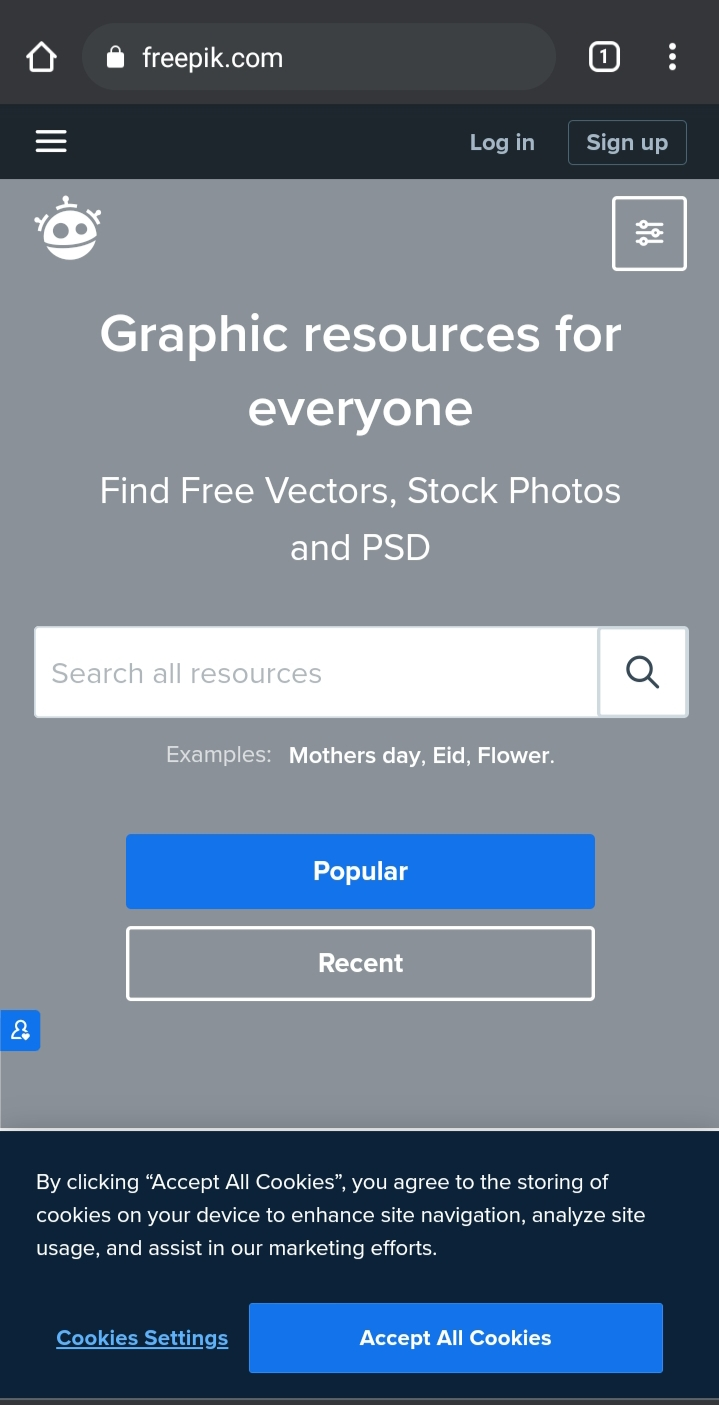
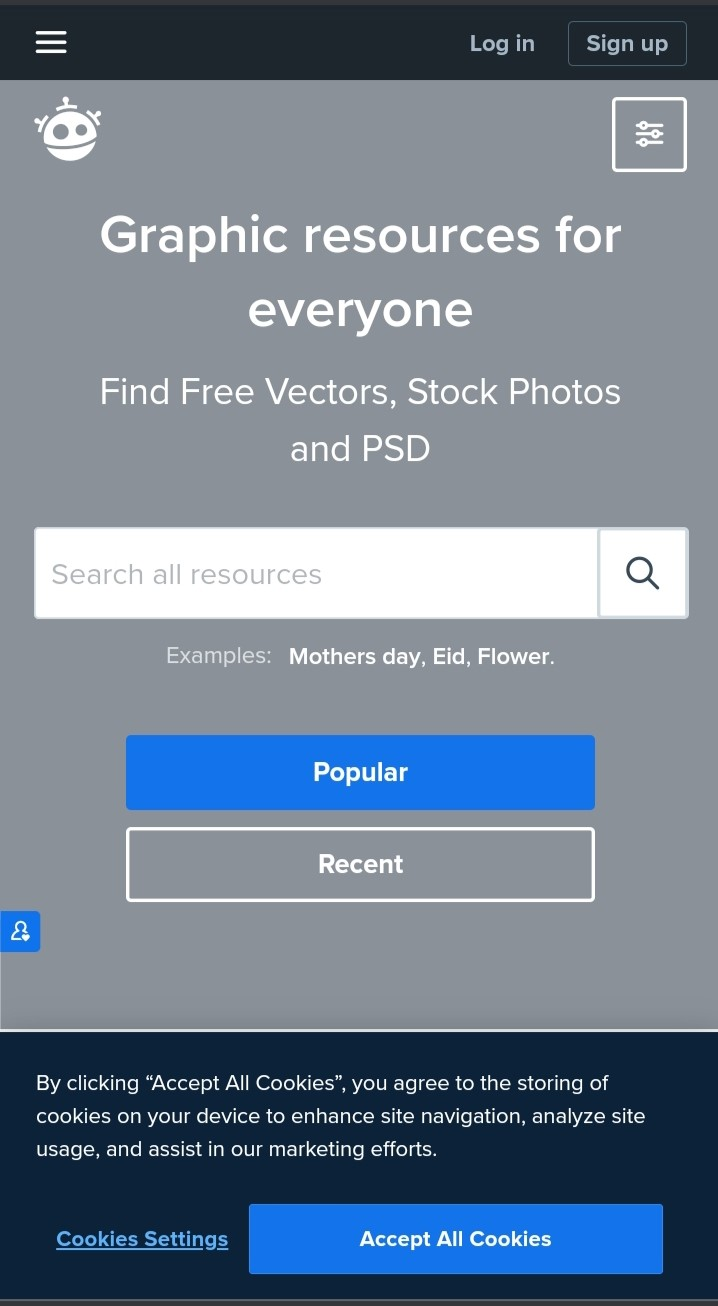
content and css update

diff --git a/lesson2/designprinciples.html b/lesson2/designprinciples.html
@@ -18,29 +18,39 @@
 <body>
     <header>
         <h1>Design Principles</h1>
+        <h2>Jill Anne Ruth V. Garcia</h2>
     </header>
     <main>
-            <section>
-                <h2>Fitt's Law</h2>
-                <h3>Freepik</h3>
-                <p><a href="https://www.freepik.com/">freepik.com</a></p>
-                <img src="images/freepikhome.jpg" alt="freepik home">
-                <p></p>
-            </section>
-            <section>
-                <h2>White Space and Clean Design</h2>
-                <h3>Khan Academy</h3>
-                <p><a href="https://www.khanacademy.org/">khanacademy.org</a></p>
-                <img src="images/khan academy home.jpg" alt="khan academy home">
-                <p></p>
-            </section>
-            <section>
-                <h2>Visual Hierarchy</h2>
-                <h3>Coolors</h3>
-                <p><a href="https://coolors.co/">coolors.co</a></p>
-                <img src="images/coolors home.jpg" alt="coolors home">
-                <p></p>
-            </section>
+        <section>
+            <h2>Fitt's Law</h2>
+            <h3>Freepik</h3>
+            <p><a href="https://www.freepik.com/">freepik.com</a></p>
+            <img src="images/filter.jpg" alt="freepik home">
+            <p>Freepik is a website where users can get paid and free media resources. The touch targets of the site are
+                very accessible. The home page shows a filter icon at the top right corner of the header. If the user
+                clicks it, he/she will see that the options for filtering search results are very user-friendly. There
+                is enough space in between touch targets that allows the user to make a more specific search.</p>
+        </section>
+        <section>
+            <h2>White Space and Clean Design</h2>
+            <h3>Khan Academy</h3>
+            <p><a href="https://www.khanacademy.org/">khanacademy.org</a></p>
+            <img src="images/khanacademyhome.jpg" alt="khan academy home">
+            <p>Khan Academy, an online learning website, has several elements on its landing page. Even if there are
+                different elements like images and texts on the page, reading through it will not strain the user’s
+                eyes. There is enough white space to allow the user's eyes to rest. And the elements were arranged in
+                such a way that will catch the user’s attention. </p>
+        </section>
+        <section>
+            <h2>Visual Hierarchy</h2>
+            <h3>Ecosia</h3>
+            <p><a href="https://www.ecosia.org">ecosia.org</a></p>
+            <img src="images/ecosia.jpg" alt="ecosia home">
+            <p>Ecosia, a search engine that aims to plant trees, only has a few elements on its home page. The
+                arrangement of the elements helps the user understand the aim and use of Ecosia. The user’s eyes are
+                guided to the purpose of the website, which is to carry out web searches. The user can also see the
+                number of plants Ecosia users have planted. </p>
+        </section>
     </main>
 
     <footer>
@@ -50,9 +60,9 @@
         </a>
         <p>Last Modified: <span id="lastmod"></span></p>
     </footer>
-    
+
     <script src="js/lesson2.js"></script>
 
 </body>
 
-</html>>
+</html>

diff --git a/lesson2/css/small.css b/lesson2/css/small.css
@@ -39,11 +39,6 @@ main section {
     padding: 20px;
 }
 
-main section:nth-child(2) {
-	display: none;
-	margin: 0.5rem;
-}
-
 img {
     width: 100%;
 }
@@ -52,12 +47,17 @@ h1 {
     font-size: 50px;
     font-family: 'Antonio', sans-serif;
     padding: 0.5rem;
+    margin-bottom: -0.5rem;
 }
 
-h2 { 
+h2 {
     font-family: 'Antonio', sans-serif;
-    background-color: #78955F;
     padding: 0.5rem;
+    margin-top: -0.5rem ;
+}
+
+section h2 { 
+    background-color: #78955F;    
     margin: -20px;
     color: #F5F7F3;
 }

diff --git a/lesson2/css/medium.css b/lesson2/css/medium.css
@@ -10,3 +10,4 @@
 	main section:nth-child(3) {
 		grid-column: span 2;
 	}
+}
